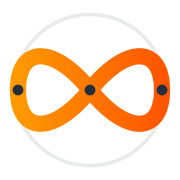
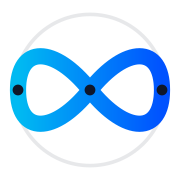
refactor: update primary brand colors across admin UI and web theme stylesheets

Changed region(s): [[0.0556, 0.25, 0.9444, 0.75]]

diff --git a/rent/apps/admin-ui/app/tenants/[id]/page.tsx b/rent/apps/admin-ui/app/tenants/[id]/page.tsx
@@ -144,7 +144,7 @@ export default function TenantDetailPage({ params }: { params: { id: string } })
             onClick={() => router.push(`/events?create=true&tenantId=${tenant.id}`)}
             variant="outlined"
             startIcon={<EventIcon />}
-            style={{ borderColor: '#4f46e5', color: '#4f46e5', textTransform: 'none', fontWeight: 600 }}
+            style={{ borderColor: '#2563eb', color: '#2563eb', textTransform: 'none', fontWeight: 600 }}
           >
             Создать событие
           </Button>
@@ -152,7 +152,7 @@ export default function TenantDetailPage({ params }: { params: { id: string } })
             onClick={handleEditClick}
             variant="contained"
             startIcon={<EditIcon />}
-            style={{ backgroundColor: '#4f46e5', color: '#fff', textTransform: 'none', fontWeight: 600 }}
+            style={{ backgroundColor: '#2563eb', color: '#fff', textTransform: 'none', fontWeight: 600 }}
           >
             Изменить
           </Button>
@@ -176,7 +176,7 @@ export default function TenantDetailPage({ params }: { params: { id: string } })
           <div style={{ display: 'grid', gridTemplateColumns: '1fr 1fr', gap: '20px' }}>
             <div>
               <span style={{ fontSize: '0.875rem', color: '#64748b', display: 'block' }}>Арендная ставка</span>
-              <strong style={{ fontSize: '1.25rem', color: '#4f46e5' }}>
+              <strong style={{ fontSize: '1.25rem', color: '#2563eb' }}>
                 {tenant.rentAmount ? `${Number(tenant.rentAmount).toLocaleString('ru-RU')} руб. / мес.` : 'Не указана'}
               </strong>
             </div>
@@ -265,7 +265,7 @@ export default function TenantDetailPage({ params }: { params: { id: string } })
               fullWidth
               startIcon={<PaymentIcon />}
               style={{
-                backgroundColor: '#4f46e5',
+                backgroundColor: '#2563eb',
                 color: '#fff',
                 textTransform: 'none',
                 padding: '12px',
@@ -288,7 +288,7 @@ export default function TenantDetailPage({ params }: { params: { id: string } })
               fullWidth
               startIcon={<AccountBalanceIcon />}
               style={{
-                color: '#4f46e5',
+                color: '#2563eb',
                 borderColor: '#c7d2fe',
                 textTransform: 'none',
                 padding: '12px',
@@ -425,7 +425,7 @@ export default function TenantDetailPage({ params }: { params: { id: string } })
             <Button onClick={() => setFormOpen(false)} variant="outlined" style={{ color: '#475569', borderColor: '#cbd5e1', textTransform: 'none' }}>
               Отмена
             </Button>
-            <Button type="submit" variant="contained" style={{ textTransform: 'none', backgroundColor: '#4f46e5' }}>
+            <Button type="submit" variant="contained" style={{ textTransform: 'none', backgroundColor: '#2563eb' }}>
               Сохранить изменения
             </Button>
           </DialogActions>

diff --git a/rent/apps/admin-ui/app/accounts/[id]/page.tsx b/rent/apps/admin-ui/app/accounts/[id]/page.tsx
@@ -116,7 +116,7 @@ export default function AccountDetailPage({ params }: { params: { id: string } }
           onClick={handleEditClick}
           variant="contained"
           startIcon={<EditIcon />}
-          style={{ backgroundColor: '#4f46e5', textTransform: 'none', fontWeight: 600 }}
+          style={{ backgroundColor: '#2563eb', textTransform: 'none', fontWeight: 600 }}
         >
           Редактировать
         </Button>
@@ -153,12 +153,12 @@ export default function AccountDetailPage({ params }: { params: { id: string } }
         <div>
           <div style={{ display: 'flex', alignItems: 'center', justifyContent: 'space-between', marginBottom: '16px' }}>
             <h3 style={{ margin: 0, display: 'flex', alignItems: 'center', gap: '8px', color: '#0f172a' }}>
-              <ReceiptLongIcon style={{ color: '#4f46e5' }} />
+              <ReceiptLongIcon style={{ color: '#2563eb' }} />
               Последние начисления
             </h3>
             <Button
               onClick={() => router.push(`/invoices?accountId=${account.id}`)}
-              style={{ textTransform: 'none', color: '#4f46e5', fontWeight: 600 }}
+              style={{ textTransform: 'none', color: '#2563eb', fontWeight: 600 }}
             >
               Все начисления →
             </Button>
@@ -217,7 +217,7 @@ export default function AccountDetailPage({ params }: { params: { id: string } }
             </h3>
             <Button
               onClick={() => router.push(`/payments?accountId=${account.id}`)}
-              style={{ textTransform: 'none', color: '#4f46e5', fontWeight: 600 }}
+              style={{ textTransform: 'none', color: '#2563eb', fontWeight: 600 }}
             >
               Все оплаты →
             </Button>
@@ -278,7 +278,7 @@ export default function AccountDetailPage({ params }: { params: { id: string } }
           <Button onClick={() => setEditOpen(false)} variant="outlined" style={{ color: '#475569', borderColor: '#cbd5e1', textTransform: 'none' }}>
             Отмена
           </Button>
-          <Button onClick={handleSaveEdit} variant="contained" style={{ textTransform: 'none', backgroundColor: '#4f46e5' }}>
+          <Button onClick={handleSaveEdit} variant="contained" style={{ textTransform: 'none', backgroundColor: '#2563eb' }}>
             Сохранить
           </Button>
         </DialogActions>

diff --git a/rent/apps/admin-ui/app/accounts/page.tsx b/rent/apps/admin-ui/app/accounts/page.tsx
@@ -185,14 +185,14 @@ export default function AccountsPage() {
                   </TableCell>
                   <TableCell>{row.meterSubmissionDay}-е число</TableCell>
                   <TableCell style={{ color: '#475569' }}>{row.apartment?.address || '—'}</TableCell>
-                  <TableCell style={{ color: '#4f46e5', fontWeight: 600 }}>
+                  <TableCell style={{ color: '#2563eb', fontWeight: 600 }}>
                     {row._count?.invoices ?? 0} шт.
                   </TableCell>
                   <TableCell style={{ textAlign: 'center' }}>
                     <div style={{ display: 'flex', justifyContent: 'center', gap: '6px' }}>
                       <button
                         className={styles.downloadLink}
-                        style={{ padding: '6px 10px', display: 'inline-flex', alignItems: 'center', gap: '4px', textDecoration: 'none', border: 'none', cursor: 'pointer', backgroundColor: '#4f46e5', color: '#fff' }}
+                        style={{ padding: '6px 10px', display: 'inline-flex', alignItems: 'center', gap: '4px', textDecoration: 'none', border: 'none', cursor: 'pointer', backgroundColor: '#2563eb', color: '#fff' }}
                         onClick={(e) => {
                           e.stopPropagation();
                           router.push(`/invoices?create=true&accountId=${row.id}`);
@@ -290,7 +290,7 @@ export default function AccountsPage() {
           <Button onClick={() => setEditAccount(null)} variant="outlined" style={{ color: '#475569', borderColor: '#cbd5e1', textTransform: 'none' }}>
             Отмена
           </Button>
-          <Button onClick={handleSaveEdit} variant="contained" style={{ textTransform: 'none', backgroundColor: '#4f46e5' }}>
+          <Button onClick={handleSaveEdit} variant="contained" style={{ textTransform: 'none', backgroundColor: '#2563eb' }}>
             Сохранить
           </Button>
         </DialogActions>

diff --git a/rent/apps/admin-ui/app/scanning/page.tsx b/rent/apps/admin-ui/app/scanning/page.tsx
@@ -128,7 +128,7 @@ export default function ScanningPage() {
               fontSize: '0.875rem', 
               borderRadius: '8px', 
               cursor: isScraperBusy || triggering ? 'not-allowed' : 'pointer',
-              backgroundColor: isScraperBusy || triggering ? '#94a3b8' : '#4f46e5',
+              backgroundColor: isScraperBusy || triggering ? '#94a3b8' : '#2563eb',
               border: 'none',
               pointerEvents: isScraperBusy || triggering ? 'none' : 'auto'
             }}
@@ -140,7 +140,7 @@ export default function ScanningPage() {
           </button>
 
           {isScraperBusy && (
-            <span style={{ fontSize: '0.875rem', color: '#4f46e5', fontWeight: 600 }}>
+            <span style={{ fontSize: '0.875rem', color: '#2563eb', fontWeight: 600 }}>
               Парсер занят, история логов обновляется автоматически...
             </span>
           )}
@@ -186,7 +186,7 @@ export default function ScanningPage() {
                     <TableCell style={{ fontWeight: 600, textAlign: 'center' }}>
                       {row.apartmentsScanned}
                     </TableCell>
-                    <TableCell style={{ fontWeight: 600, color: '#4f46e5', textAlign: 'center' }}>
+                    <TableCell style={{ fontWeight: 600, color: '#2563eb', textAlign: 'center' }}>
                       {row.newAccruals} / {row.newInvoices}
                     </TableCell>
                     <TableCell style={{ color: '#475569', fontSize: '0.8rem', maxWidth: '250px', wordBreak: 'break-word' }}>

diff --git a/viaslangs/web/src/components/Stats.tsx b/viaslangs/web/src/components/Stats.tsx
@@ -244,13 +244,13 @@ const handleCopyTodayWordsJson = async () => {
       title: 'Total Words',
       value: stats.totalWords,
       icon: <Book color="primary" />,
-      color: '#FF9900',
+      color: '#10B981',
     },
     {
       title: 'Learned Words',
       value: stats.learnedWords,
       icon: <School color="success" />,
-      color: '#2e7d32',
+      color: '#059669',
     },
     {
       title: 'Favorite Words',
@@ -268,13 +268,13 @@ const handleCopyTodayWordsJson = async () => {
       title: 'Correct Answers',
       value: stats.correctAnswers,
       icon: <CheckCircle color="success" />,
-      color: '#2e7d32',
+      color: '#059669',
     },
     {
       title: 'Accuracy',
       value: `${stats.accuracy}%`,
       icon: <TrendingUp color="warning" />,
-      color: '#E68A00',
+      color: '#F59E0B',
     },
   ];
 
@@ -347,7 +347,7 @@ const handleCopyTodayWordsJson = async () => {
                   sx={{
                     width: `${(stats.learnedWords / stats.totalWords) * 100}%`,
                     height: '100%',
-                    backgroundColor: '#FF9900',
+                    backgroundColor: '#10B981',
                     transition: 'width 0.3s ease',
                   }}
                 />

diff --git a/rent/apps/admin-ui/app/tenants/page.tsx b/rent/apps/admin-ui/app/tenants/page.tsx
@@ -251,7 +251,7 @@ export default function TenantsPage() {
                   <TableCell>
                     {row.rentPaymentDay ? `${row.rentPaymentDay}-е число` : '—'}
                   </TableCell>
-                  <TableCell style={{ fontWeight: 600, color: '#4f46e5' }}>
+                  <TableCell style={{ fontWeight: 600, color: '#2563eb' }}>
                     {row.rentAmount ? `${Number(row.rentAmount).toFixed(2)} руб.` : '—'}
                   </TableCell>
                   <TableCell>{renderStatus(row.status)}</TableCell>
@@ -381,7 +381,7 @@ export default function TenantsPage() {
             <Button onClick={() => setFormOpen(false)} variant="outlined" style={{ color: '#475569', borderColor: '#cbd5e1', textTransform: 'none' }}>
               Отмена
             </Button>
-            <Button type="submit" variant="contained" style={{ textTransform: 'none', backgroundColor: '#4f46e5' }}>
+            <Button type="submit" variant="contained" style={{ textTransform: 'none', backgroundColor: '#2563eb' }}>
               {editingTenant ? 'Сохранить изменения' : 'Добавить арендатора'}
             </Button>
           </DialogActions>

diff --git a/rent/apps/admin-ui/components/DateRangePicker.tsx b/rent/apps/admin-ui/components/DateRangePicker.tsx
@@ -109,7 +109,7 @@ export default function DateRangePicker({ fromMonth, toMonth, onChange, onReset 
         aria-describedby={id}
         variant="outlined"
         onClick={handleClick}
-        startIcon={<CalendarTodayIcon style={{ fontSize: '1rem', color: hasFilter ? '#4f46e5' : '#64748b' }} />}
+        startIcon={<CalendarTodayIcon style={{ fontSize: '1rem', color: hasFilter ? '#2563eb' : '#64748b' }} />}
         style={{
           backgroundColor: hasFilter ? '#e0e7ff' : '#fff',
           borderColor: hasFilter ? '#818cf8' : '#cbd5e1',
@@ -261,7 +261,7 @@ export default function DateRangePicker({ fromMonth, toMonth, onChange, onReset 
               variant="contained"
               size="small"
               startIcon={<CheckIcon />}
-              style={{ backgroundColor: '#4f46e5', textTransform: 'none', fontWeight: 600 }}
+              style={{ backgroundColor: '#2563eb', textTransform: 'none', fontWeight: 600 }}
             >
               Применить
             </Button>

diff --git a/rent/apps/admin-ui/components/CreateEditEventModal.tsx b/rent/apps/admin-ui/components/CreateEditEventModal.tsx
@@ -490,7 +490,7 @@ export default React.memo(function CreateEditEventModal({
         <Button onClick={onClose} variant="outlined" disabled={isSubmitting} style={{ color: '#475569', borderColor: '#cbd5e1', textTransform: 'none' }}>
           Отмена
         </Button>
-        <Button onClick={handleSubmit} variant="contained" disabled={isSubmitting} style={{ textTransform: 'none', backgroundColor: '#4f46e5' }}>
+        <Button onClick={handleSubmit} variant="contained" disabled={isSubmitting} style={{ textTransform: 'none', backgroundColor: '#2563eb' }}>
           {isSubmitting ? 'Сохранение...' : (eventToEdit ? 'Сохранить изменения' : 'Создать событие')}
         </Button>
       </DialogActions>

diff --git a/rent/apps/admin-ui/components/AddInvoiceModal.tsx b/rent/apps/admin-ui/components/AddInvoiceModal.tsx
@@ -162,7 +162,7 @@ export default React.memo(function AddInvoiceModal({
         <Button onClick={onClose} variant="outlined" disabled={isSubmitting} style={{ color: '#475569', borderColor: '#cbd5e1', textTransform: 'none' }}>
           Отмена
         </Button>
-        <Button onClick={handleSubmit} variant="contained" disabled={isSubmitting} style={{ textTransform: 'none', backgroundColor: '#4f46e5' }}>
+        <Button onClick={handleSubmit} variant="contained" disabled={isSubmitting} style={{ textTransform: 'none', backgroundColor: '#2563eb' }}>
           {isSubmitting ? 'Сохранение...' : 'Выставить счет'}
         </Button>
       </DialogActions>

diff --git a/rent/apps/admin-ui/app/layout.module.css b/rent/apps/admin-ui/app/layout.module.css
@@ -66,13 +66,13 @@
 }
 
 .activeMenuLink {
-  background: linear-gradient(90deg, #4f46e5 0%, #4338ca 100%);
+  background: linear-gradient(90deg, #2563eb 0%, #1d4ed8 100%);
   color: #ffffff;
-  box-shadow: 0 4px 12px rgba(79, 70, 229, 0.35);
+  box-shadow: 0 4px 12px rgba(37, 99, 235, 0.35);
 }
 
 .activeMenuLink:hover {
-  background: linear-gradient(90deg, #4f46e5 0%, #4338ca 100%);
+  background: linear-gradient(90deg, #2563eb 0%, #1d4ed8 100%);
   color: #ffffff;
 }
 
@@ -116,8 +116,8 @@
 }
 
 .userBadge {
-  background-color: #e0e7ff;
-  color: #4338ca;
+  background-color: #dbeafe;
+  color: #1d4ed8;
   padding: 6px 12px;
   border-radius: 9999px;
   font-size: 0.75rem;

diff --git a/rent/apps/admin-ui/app/apartments/page.tsx b/rent/apps/admin-ui/app/apartments/page.tsx
@@ -132,7 +132,7 @@ export default function ApartmentsPage() {
                   <TableCell style={{ color: '#64748b', fontSize: '0.8rem' }}>{row.externalId}</TableCell>
                   <TableCell style={{ fontWeight: 500 }}>{row.address || '—'}</TableCell>
                   <TableCell>{row.organization || '—'}</TableCell>
-                  <TableCell style={{ fontWeight: 600, color: '#4f46e5' }}>
+                  <TableCell style={{ fontWeight: 600, color: '#2563eb' }}>
                     {row._count?.accounts ?? 0} шт.
                   </TableCell>
                   <TableCell style={{ color: '#64748b' }}>{formatDate(row.firstSeenAt)}</TableCell>

diff --git a/rent/apps/admin-ui/app/events/page.tsx b/rent/apps/admin-ui/app/events/page.tsx
@@ -145,7 +145,7 @@ export default function EventsPage() {
 
         <button
           className={styles.downloadLink}
-          style={{ padding: '10px 18px', display: 'flex', alignItems: 'center', gap: '6px', border: 'none', cursor: 'pointer', backgroundColor: '#4f46e5', color: '#fff', fontWeight: 600, borderRadius: '8px' }}
+          style={{ padding: '10px 18px', display: 'flex', alignItems: 'center', gap: '6px', border: 'none', cursor: 'pointer', backgroundColor: '#2563eb', color: '#fff', fontWeight: 600, borderRadius: '8px' }}
           onClick={handleCreateClick}
         >
           <AddIcon style={{ fontSize: '1.2rem' }} />
